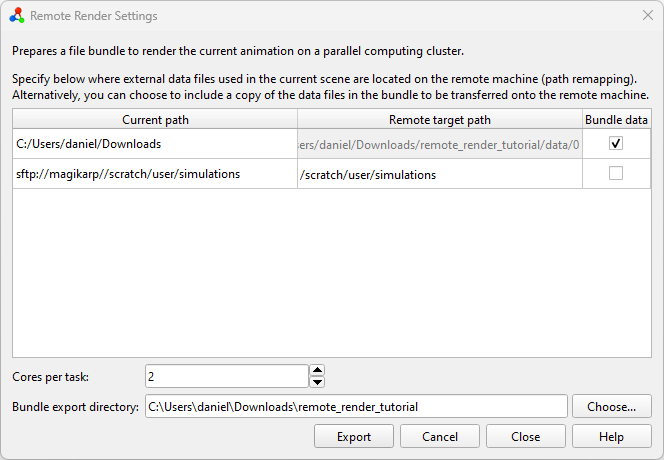
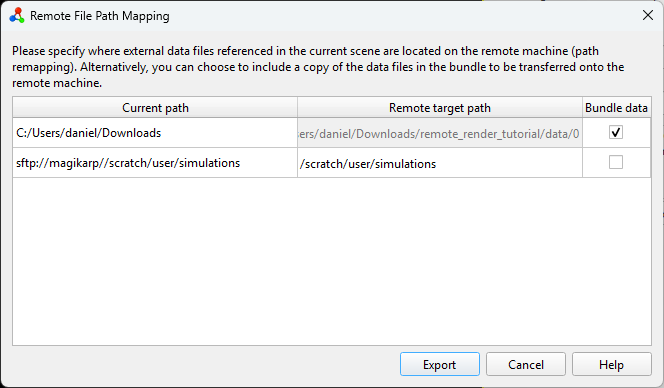
Update remote rendering panel for utility tab changes

diff --git a/doc/manual/tutorials/remote_rendering.rst b/doc/manual/tutorials/remote_rendering.rst
@@ -63,15 +63,15 @@ functionality with the URL
 the file from its remote location. When asked by OVITO, select :ref:`Add to scene <usage.import.multiple_datasets>`
 to load the second dataset into the existing scene.
 
+.. image:: ../images/tutorials/remote_render/render_tab.png
+    :width: 30%
+    :align: left
+
 At this point, both simulation trajectories should be visible side-by-side in the viewports.
 Next, you can apply modifiers as desired to build up typical visualization pipelines.
 For this tutorial, we will color the water molecules by their molecule identifiers using the
 :ref:`particles.modifiers.color_coding` modifier. This is also the time to configure
 viewport overlays, the camera perspective, and any other settings required for a visualization.
-
-.. image:: ../images/tutorials/remote_render/render_tab.png
-    :width: 30%
-    :align: left
 
 Finally, go to the :ref:`render tab <rendering>` and configure the animation rendering options.
 Since rendering on a remote computer makes the most sense when a lot of frames have to be rendered, we will select
@@ -83,13 +83,25 @@ to :ref:`Tachyon <rendering.tachyon_renderer>`,
 This step can be necessary because many compute clusters do not provide
 the required system environment for the OpenGL renderer to work on the compute nodes.
 
+.. image:: ../images/tutorials/remote_render/remote_render_settings_tab.png
+   :width: 30%
+   :align: right
+
 After configuring everything as we would for local rendering, instead of
 hitting the :guilabel:`Render active viewport` button and grabbing some coffee, we
-select :menuselection:`File --> Render on remote computer...` from the main menu. This
-opens the *Remote render settings* dialog window.
+select :guilabel:`Render on remote computer` from the :guilabel:`Utilities...` tab. This
+opens the *Remote render settings*. Here we can specify a (local) destination directory for the bundle by clicking
+the :guilabel:`Choose...` button. In this tutorial, it's ``C:\Users\daniel\Downloads\remote_render_tutorial``.
+The selected directory must be empty.
+Moreover, the number of cores per rendering task has to be set. By default, this is set to *all available*,
+but you may want to adjust it based on your needs and also the memory requirements of your simulation dataset.
+For example, on a compute node with 96 cores, setting *CPU cores per task* to 8 means that each node
+will spawn 12 workers, rendering 12 images concurrently. Generally, more workers
+with fewer cores scale better for most rendering tasks, but some benchmarking
+might be required to reach optimal performance.
 
 .. image:: ../images/tutorials/remote_render/export_dialog.png
-   :width: 40%
+   :width: 50%
    :align: right
 
 You'll be presented with a table containing three columns (*Current path*,
@@ -110,16 +122,7 @@ on the remote cluster. This informs OVITO that all files found at the
 original URL will be available under the new (local) path once the bundle is moved to
 the remote computer.
 
-Set the number of cores per rendering task. By default, this is set to *all available*,
-but you may want to adjust it based on your needs and also the memory requirements of your simulation dataset.
-For example, on a compute node with 96 cores, setting *CPU cores per task* to 8 means that each node
-will spawn 12 workers, rendering 12 images concurrently. Generally, more workers
-with fewer cores scale better for most rendering tasks, but some benchmarking
-might be required to reach optimal performance.
-
-Lastly, specify a (local) destination directory for the bundle by clicking
-the :guilabel:`Choose...` button. In this tutorial, it's ``C:\Users\daniel\Downloads\remote_render_tutorial``.
-The selected directory must be empty. Once everything is set up, hit
+Once everything is set up, hit
 :guilabel:`Export` to let *OVITO Pro* write the actual file bundle.
 
 Pack and transfer